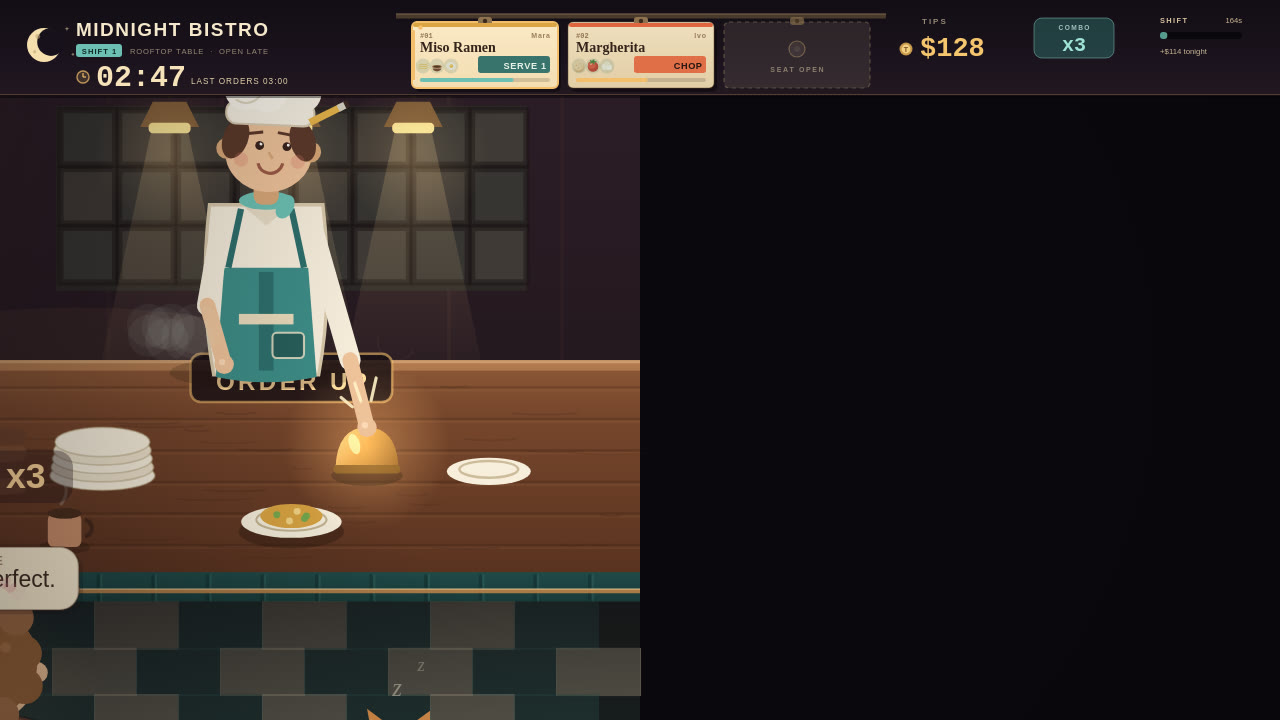
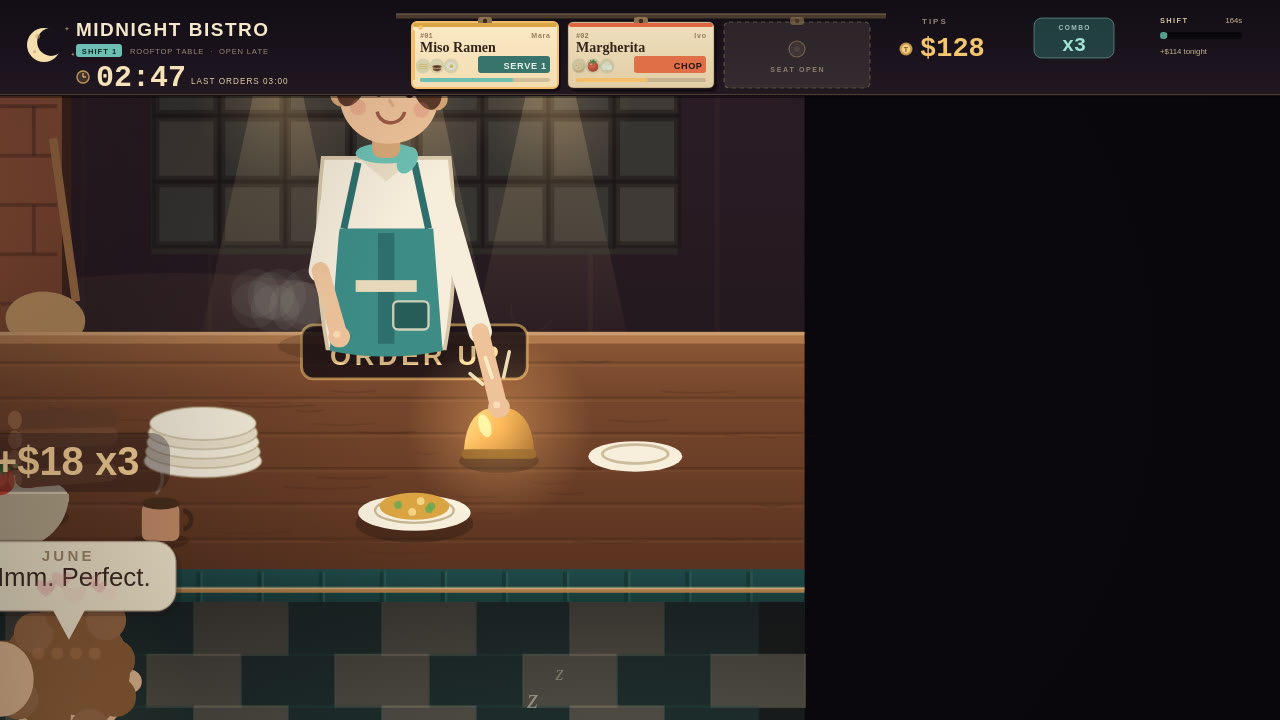
Make the pass unmistakable: bigger lit plate, ORDER UP tag, tighter row cameras

diff --git a/game/src/render.js b/game/src/render.js
@@ -1274,15 +1274,23 @@ function drawPassTop(ctx, game) {
     ctx.ellipse(1104, 500, 100, 40, 0, 0, Math.PI * 2);
     ctx.fill();
     ctx.restore();
-    drawDish(ctx, 1104, 500, recipeById('ramen'), 1.85, true);
+    drawDish(ctx, 1104, 500, recipeById('ramen'), 2.15, true);
     // a bright rim keeps the plate from melting into the counter
     ctx.save();
     ctx.strokeStyle = withAlpha('#fff4d6', 0.85);
     ctx.lineWidth = 2;
     ctx.beginPath();
-    ctx.ellipse(1104, 498, 47, 15.2, 0, Math.PI * 1.03, Math.PI * 1.97);
+    ctx.ellipse(1104, 498, 54, 17.4, 0, Math.PI * 1.03, Math.PI * 1.97);
     ctx.stroke();
     ctx.restore();
+    // the pass light box says what the counter already knows
+    ctx.fillStyle = withAlpha('#1a1114', 0.88);
+    rr(ctx, 1104 - 52, 442, 104, 25, 5);
+    ctx.fill();
+    ctx.strokeStyle = withAlpha('#f3bf6d', 0.65);
+    ctx.lineWidth = 1.2;
+    ctx.stroke();
+    text(ctx, 'ORDER UP', 1104, 460, 12.5, '#ffd79a', { weight: 700, spacing: 1.7, align: 'center' });
     // steam curls rising into the lamp light, so the pass reads as a pass
     ctx.save();
     ctx.strokeStyle = withAlpha('#ffe6bd', 0.26);

diff --git a/game/src/shots.js b/game/src/shots.js
@@ -95,7 +95,7 @@ export function stageShot(game, kind, seed = 7) {
       game.chop.speed = 1.0;
       o0.chops = 2;
     }
-    game.camera = createCamera(390, 430, 2.35);
+    game.camera = createCamera(400, 446, 2.75);
     game.tips = 128;
     game.combo = 3;
     game.clockMinutes = 167;
@@ -119,7 +119,7 @@ export function stageShot(game, kind, seed = 7) {
       game.cook.speed = 0.11;
       o0.quality = null;
     }
-    game.camera = createCamera(636, 420, 2.25);
+    game.camera = createCamera(646, 436, 2.7);
     emitSteam(game, 674, 402, 12, 12, { a: 0.2 });
     emitSteam(game, 578, 424, 6, 16, { a: 0.12 });
     emitSpark(game, 566, 440, 8);
@@ -132,7 +132,7 @@ export function stageShot(game, kind, seed = 7) {
     ticket(game, 1, 'margherita', 'chop', 0.55, { gathered: true, chops: 1 });
     moveChefTo(game.chef, 'pass', 0);
     setPose(game.chef, 'ring', 99);
-    game.camera = createCamera(1280, 470, 2.1);
+    game.camera = createCamera(1210, 480, 2.35);
     game.tips = 128;
     game.combo = 3;
     game.tipsEarned = 114;
